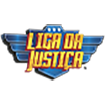
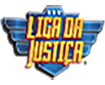
Layout muito melhorado, responsividade tambem adicionada imagem de pagamento pix

diff --git a/style.css b/style.css
@@ -41,6 +41,11 @@
     height: 140vh;
     background-size: cover;
 }
+#img-pix {
+    position: absolute;
+    top: 800px;
+    left: 630px;
+}
 #text-box1{
     display: none;
     padding: 4px;
@@ -134,6 +139,12 @@
     background-size: cover;
 
 }
+.DC li:nth-child(1):hover ~ #text-box1{
+    display: inline;
+    position: absolute;
+    top: 0px;
+    right: 90px;
+}
 .DC li:nth-child(1){
     position: absolute;
     top: 0;
@@ -141,58 +152,66 @@
     background-size: cover;
 
 }
-.DC li:nth-child(2){
+.DC li:nth-child(3){
     position: absolute;
     top: 88px;
     right: 3px;
     background-size: cover;
 
 }
-.DC li:nth-child(3){
+
+.DC li:nth-child(4){
     position: absolute;
     top: 176px;
     right: 3px;
     background-size: cover;
 
 }
-.DC li:nth-child(4){
+.DC li:nth-child(5){
     position: absolute;
     top: 264px;
     right: 3px;
     background-size: cover;
 
 }
-.DC li:nth-child(5){
+.DC li:nth-child(6){
     position: absolute;
     top: 352px;
     right: 3px;
     background-size: cover;
 
 }
-.DC li:nth-child(6){
+.DC li:nth-child(7){
     position: absolute;
     top: 440px;
     right: 3px;
     background-size: cover;
 
 }
-.DC li:nth-child(7){
+.DC li:nth-child(8){
     position: absolute;
     top: 528px;
     right: 3px;
     background-size: cover;
 
 }
-.DC li:nth-child(8){
+.DC li:nth-child(9){
     position: absolute;
     top: 616px;
     right: 3px;
     background-size: cover;
 
 }
-.DC li:nth-child(9){
+.DC li:nth-child(10){
     position: absolute;
     top: 704px;
+    right: 3px;
+    background-size: cover;
+
+}
+.DC li:nth-child(11){
+    position: absolute;
+    top: 792px;
     right: 3px;
     background-size: cover;
 
@@ -242,6 +261,11 @@
     -ms-transform: scale(1.3);
     transform: scale(1.3);
 }
+.DC li:nth-child(10):hover{
+    -webkit-transform: scale(1.3);
+    -ms-transform: scale(1.3);
+    transform: scale(1.3);
+}
  
 .rodape {
     background-color: black;
@@ -274,10 +298,10 @@
     }
     #logo {
         position:absolute;
-        top: 80px;
-        left: 100px;
-        width: 180px;
-        height: 140px;
+        top: 85px;
+        left: 116px;
+        width: 150px;
+        height: 114px;
         background-size: cover;
     
     }
@@ -291,8 +315,15 @@
     }
     #img-fundo {
         width: 100vw;
-        height: 140vh;
+        height: 80vh;
         background-size: cover;
+    }
+    #img-pix {
+        position: absolute;
+        top: 550px;
+        left: 140px;
+        width: 100px;
+        height: 80px;
     }
     #text-box1{
         display: none;
@@ -310,9 +341,17 @@
     .marvel {
         position: absolute;
         top: 140px;
-        left: 0;
+        left: 50px;
         background-size: cover;
-        margin: 15px,15px,15px,15px;
+    }
+    .marvel img{
+        max-width: 100%;
+        max-height: 100%;
+
+    }
+    .marvel li {
+        width: 50px;
+        height: 50px;
     }
     
     .marvel li:nth-child(1):hover ~ #text-box1{
@@ -385,14 +424,153 @@
     .DC {
         position: absolute;
         top: 140px;
+        right: 50px;
+        background-size: cover;
+    }
+    .DC img{
+        max-width: 100%;
+        max-height: 100%;
+
+    }
+    .DC li {
+        width: 50px;
+        height: 50px;
+    }
+    
+    .DC li:nth-child(1):hover ~ #text-box1{
+        display: inline;
+        position: absolute;
+        top: 0px;
+        right: 90px;
+    }
+    .DC li:nth-child(1){
+        position: absolute;
+        top: 0;
         right: 0px;
         background-size: cover;
-        margin: 15px,15px,15px,15px;
+    
+    }
+    .DC li:nth-child(3){
+        position: absolute;
+        top: 41px;
+        right: 0px;
+        background-size: cover;
+    
+    }
+    
+    .DC li:nth-child(4){
+        position: absolute;
+        top: 95px;
+        right: 0px;
+        background-size: cover;
+    
+    }
+    .DC li:nth-child(5){
+        position: absolute;
+        top: 145px;
+        right: 0px;
+        background-size: cover;
+    
+    }
+    .DC li:nth-child(6){
+        position: absolute;
+        top: 195px;
+        right: 0px;
+        background-size: cover;
+    
+    }
+    .DC li:nth-child(7){
+        position: absolute;
+        top: 245px;
+        right: 0px;
+        background-size: cover;
+    
+    }
+    .DC li:nth-child(8){
+        position: absolute;
+        top: 292px;
+        right: 0px;
+        background-size: cover;
+    
+    }
+    .DC li:nth-child(9){
+        position: absolute;
+        top: 345px;
+        right: 0px;
+        background-size: cover;
+    
+    }
+    .DC li:nth-child(10){
+        position: absolute;
+        top: 395px;
+        right: 0px;
+        background-size: cover;
+    
+    }
+    .DC li:nth-child(11){
+        position: absolute;
+        top: 442px;
+        right: 0px;
+        background-size: cover;
+    
     }
     .DC li:nth-child(1):hover{
         -webkit-transform: scale(1.3);
         -ms-transform: scale(1.3);
         transform: scale(1.3);
+    }
+    .DC li:nth-child(2):hover {
+        -webkit-transform: scale(1.3);
+            -ms-transform: scale(1.3);
+            transform: scale(1.3);
+    
+    }
+    .DC li:nth-child(3):hover {
+        -webkit-transform: scale(1.3);
+            -ms-transform: scale(1.3);
+            transform: scale(1.3);
+    
+    }
+    .DC li:nth-child(4):hover {
+        -webkit-transform: scale(1.3);
+            -ms-transform: scale(1.3);
+            transform: scale(1.3);
+    
+    }
+    .DC li:nth-child(5):hover {
+        -webkit-transform: scale(1.3);
+            -ms-transform: scale(1.3);
+            transform: scale(1.3);
+    
+    }
+    .DC li:nth-child(6):hover {
+        -webkit-transform: scale(1.3);
+            -ms-transform: scale(1.3);
+            transform: scale(1.3);
+    
+    }
+    .DC li:nth-child(7):hover {
+        -webkit-transform: scale(1.3);
+            -ms-transform: scale(1.3);
+            transform: scale(1.3);
+    
+    }
+    .DC li:nth-child(8):hover {
+        -webkit-transform: scale(1.3);
+            -ms-transform: scale(1.3);
+            transform: scale(1.3);
+    
+    }.DC li:nth-child(9):hover {
+        -webkit-transform: scale(1.3);
+            -ms-transform: scale(1.3);
+            transform: scale(1.3);
+    
+    }
+    .DC li:nth-child(10):hover {
+        -webkit-transform: scale(1.3);
+            -ms-transform: scale(1.3);
+            transform: scale(1.3);
+    
     }
     .rodape {
         background-color: black;
@@ -402,11 +580,13 @@
         vertical-align:baseline;
     }
     .rodape a {
-        margin: 20px 20px 20px 20px;
-        padding: 20px 20px 20px 20px;
+        margin: 3px;
+        padding: 3px;
     }
     .rodape p {
         color: white;
+        text-align: left;
+        vertical-align: middle;
     }
 
 }

diff --git a/index.html b/index.html
@@ -21,6 +21,7 @@
         <div class="fundo">
           
           <img id="img-fundo" src="./img/background.jpg" alt="DC&Marvel">
+          <img id="img-pix" src="./img/pix.png" alt="pix">
          
         </div>
         <section class="marvel">
@@ -40,6 +41,7 @@
         <section class="DC">
            <ul>
                <li><a title="Liga-Da-Justiça" href="" target="_blank"><img src="./img/DC/ligadajustica.png" alt="liga-da-justica" /></a></li>
+               <p id="text-box1">Liga Da Justiça</p>
                <li><a title="Super-Homem" href="" target="_blank"><img src="./img/DC/super-homem.png" alt="capitao-america" /></a></li>
                <li><a title="Batman" href="" target="_blank"><img src="./img/DC/batman.png" alt="batman" /></a></li>
                <li><a title="Mulher-Maravilha" href="" target="_blank"><img src="./img/DC/mulher-maravilha.png" alt="mulher-maravilha" /></a></li>
